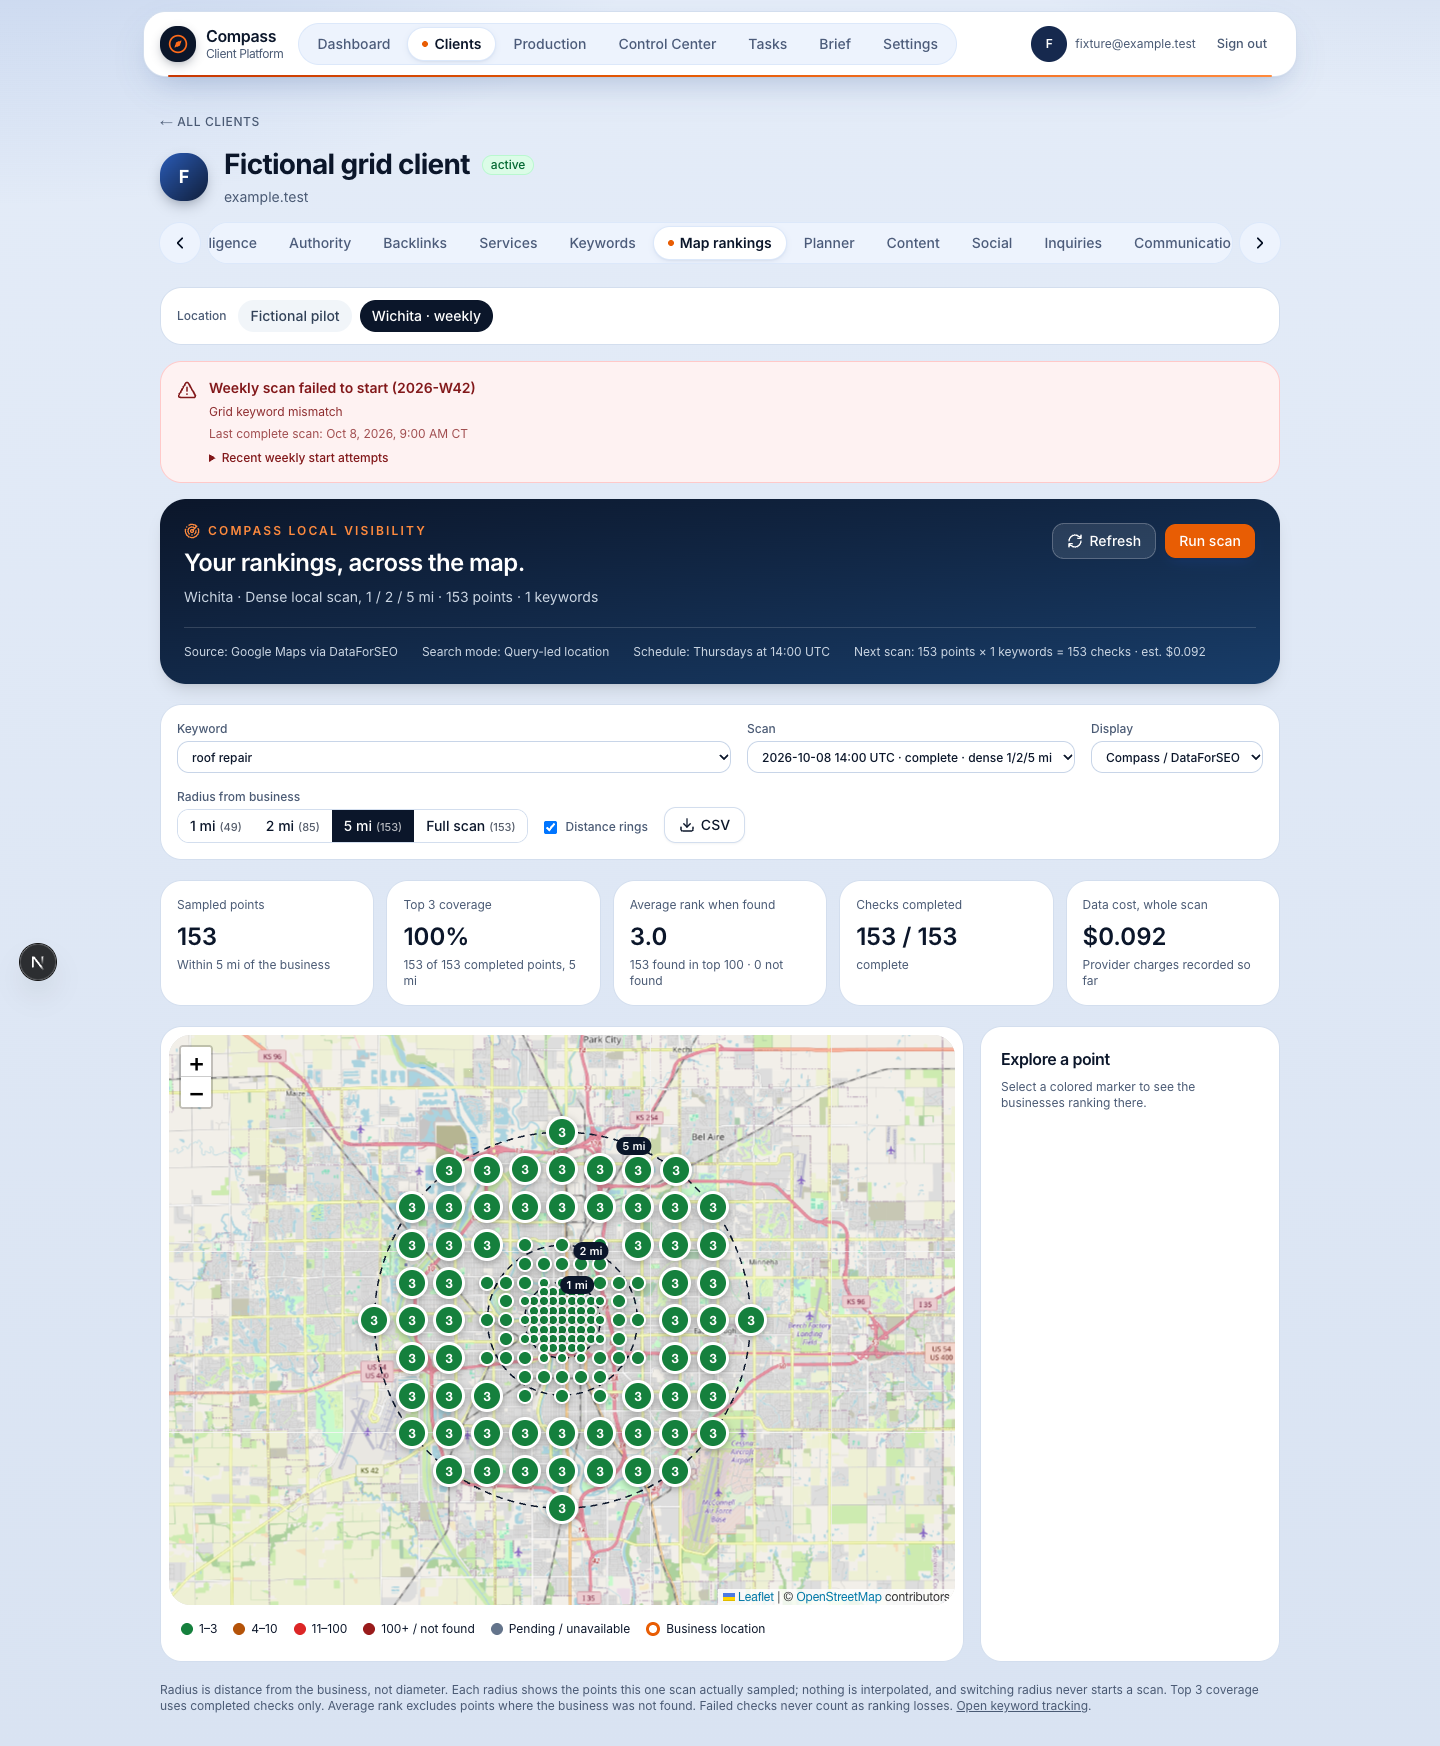
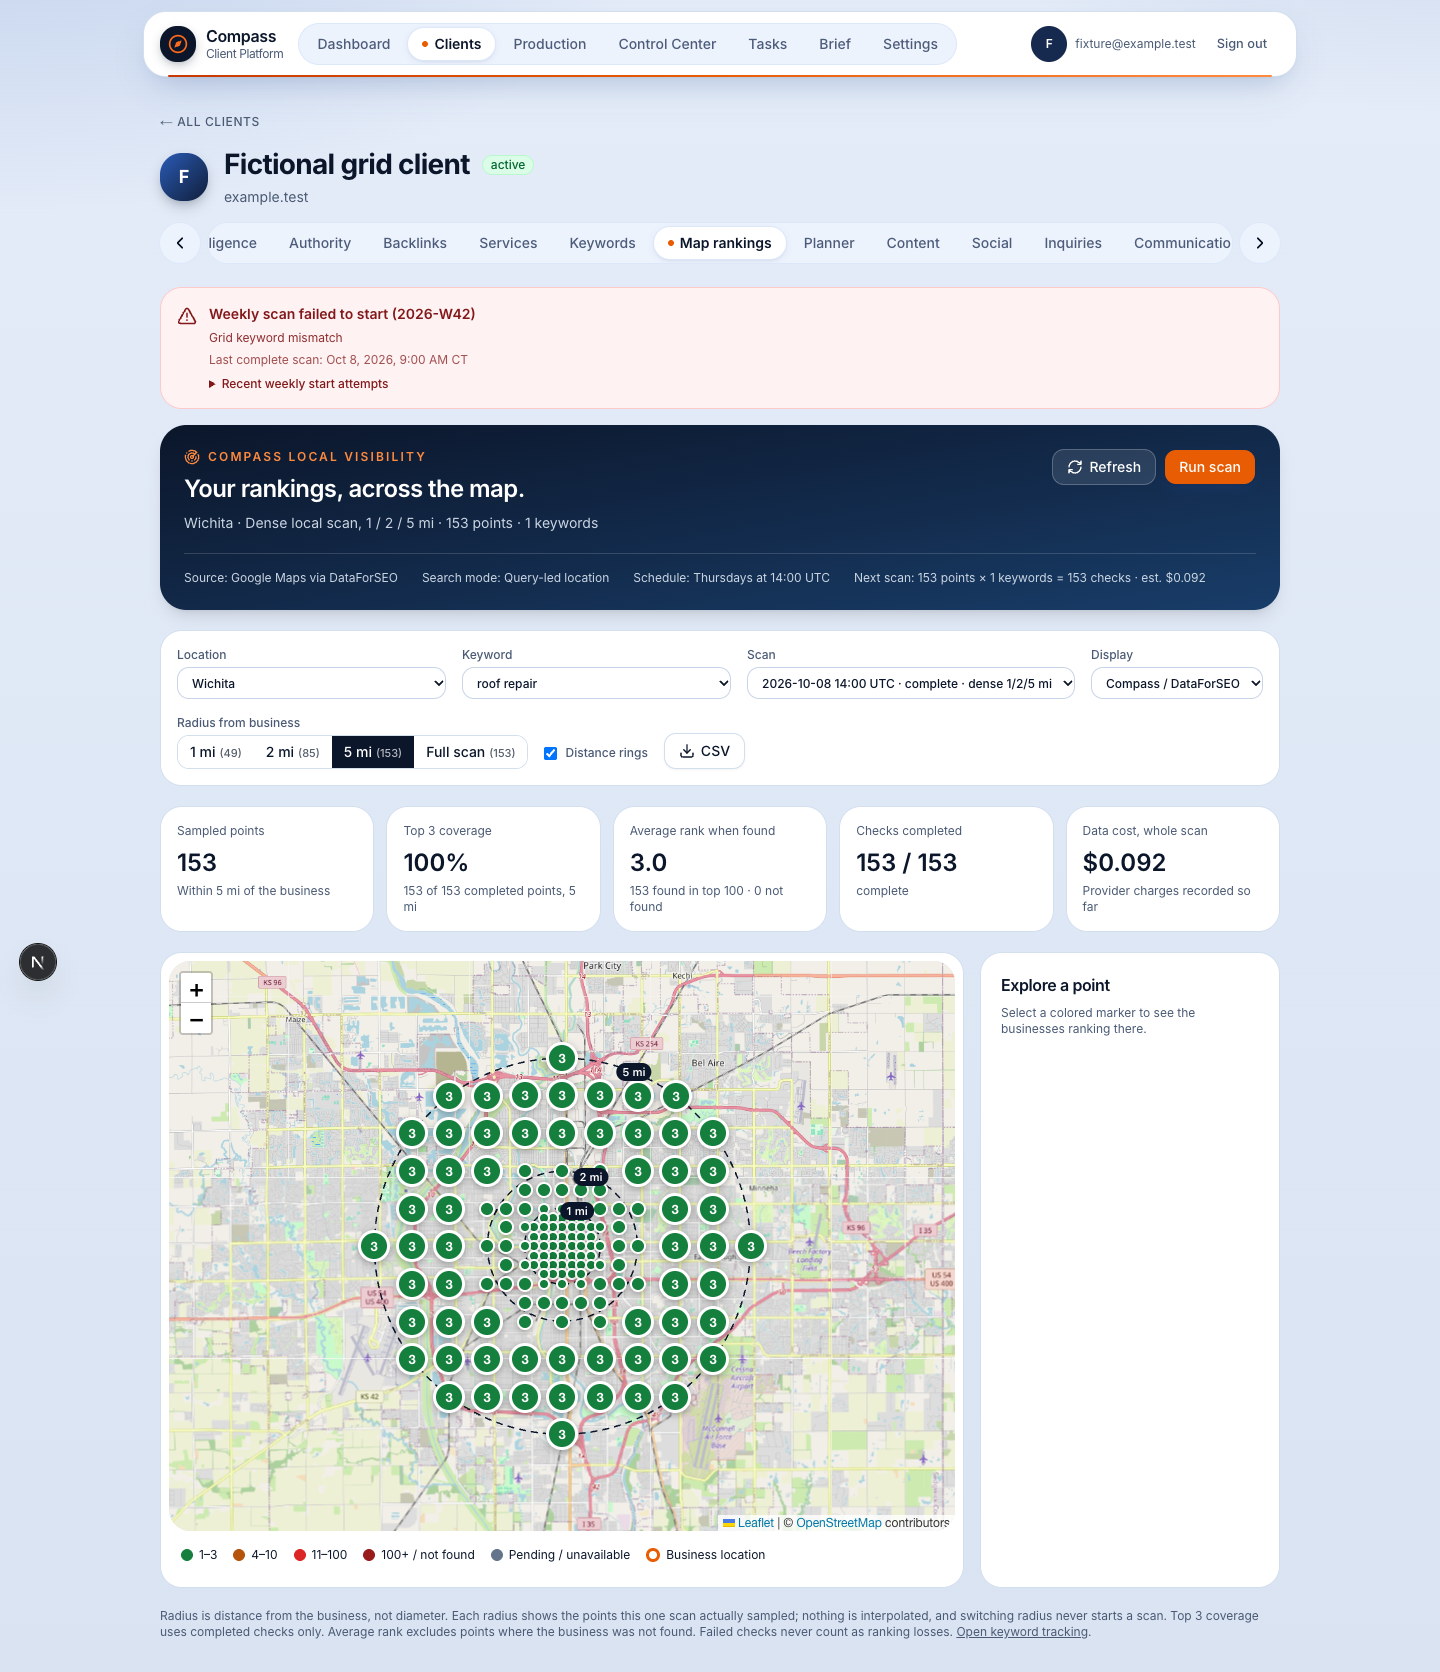
Map grid: align the location selector with #167; 404 for other clients' grids
Converge with the parallel implementation on #167 (8e8aba8) so the two
branches merge cleanly: the dashboard's "Map location" dropdown and
mapsHref links are taken verbatim from #167, and a profile or run from
another client is now a 404. Kept from #169: a ?run= link without
?profile= opens its run's own grid (otherwise a Wichita run link fell back
to the first profile), and weekly alerts link to ?profile=.

Changed region(s): [[0.0938, 0.0, 0.9062, 0.9952], [0.0, 0.5287, 0.0625, 0.5909], [0.8438, 0.9641, 0.875, 0.9952]]

diff --git a/src/app/(app)/clients/[clientId]/maps/page.tsx b/src/app/(app)/clients/[clientId]/maps/page.tsx
@@ -1,4 +1,4 @@
-import Link from "next/link";
+import { notFound } from "next/navigation";
 import { createClient } from "@/lib/supabase/server";
 import {
   MapGridDashboard,
@@ -18,8 +18,9 @@ export default async function MapsPage({
   const { clientId } = await params;
   const { run: runId, profile: profileParam } = await searchParams;
   const db = await createClient();
-  // A client can have several grids (one per location). Everything below is
-  // scoped to the one selected here, and only this client's grids are eligible.
+  // A client can have one profile per location (Logic Solar: Overland Park
+  // and Wichita). Only this client's profiles are candidates, so a profile or
+  // run from another client is a 404, never a silent switch to other data.
   const { data: profiles, error } = await db
     .from("map_grid_profiles")
     .select("*")
@@ -49,19 +50,7 @@ export default async function MapsPage({
   const profile = profileId
     ? profiles.find((p) => p.id === profileId)
     : profiles[0];
-  if (!profile)
-    return (
-      <div role="alert" className="rounded-2xl border bg-card p-8">
-        <h2 className="text-xl font-semibold">Map rankings</h2>
-        <p className="mt-2 text-sm text-muted-foreground">
-          That map grid is not one of this client&apos;s locations.{" "}
-          <Link href={`/clients/${clientId}/maps`} className="underline">
-            Show this client&apos;s grids
-          </Link>
-          .
-        </p>
-      </div>
-    );
+  if (!profile) notFound();
   const { data: runs, error: runsError } = await db
     .from("map_grid_runs")
     .select("id,started_at,status,error,config")
@@ -120,33 +109,6 @@ export default async function MapsPage({
   }
   return (
     <div className="space-y-4">
-      {profiles.length > 1 && (
-        <nav
-          aria-label="Map grid location"
-          className="flex flex-wrap items-center gap-2 rounded-2xl border bg-card p-3 text-sm"
-        >
-          <span className="px-1 text-xs font-medium text-muted-foreground">
-            Location
-          </span>
-          {profiles.map((p) => (
-            <Link
-              key={p.id}
-              href={`/clients/${clientId}/maps?profile=${p.id}`}
-              aria-current={p.id === profile.id ? "page" : undefined}
-              data-map-grid-profile-link={p.id}
-              className={
-                "rounded-full px-3 py-1.5 font-medium " +
-                (p.id === profile.id
-                  ? "bg-navy-900 text-white"
-                  : "bg-slate-100 text-slate-700 hover:bg-slate-200")
-              }
-            >
-              {p.label}
-              {p.weekly_enabled ? " · weekly" : ""}
-            </Link>
-          ))}
-        </nav>
-      )}
       {attemptsResult.error ? (
         <p
           role="alert"
@@ -160,6 +122,7 @@ export default async function MapsPage({
       <MapGridDashboard
         key={run?.id ?? profile.id}
         clientId={clientId}
+        profiles={profiles.map((p) => ({ id: p.id, label: p.label }))}
         profile={{
           id: profile.id,
           label: profile.label,

diff --git a/src/components/map-grid-dashboard.tsx b/src/components/map-grid-dashboard.tsx
@@ -62,6 +62,7 @@ export function MapGridDashboard({
   checks,
   baselines,
   homeCenter,
+  profiles = [],
 }: {
   clientId: string;
   profile: {
@@ -77,8 +78,13 @@ export function MapGridDashboard({
   baselines: GridBaseline[];
   // The grid config's recorded center, for runs frozen before geometry existed.
   homeCenter: GridPoint | null;
+  // Every map-grid profile this client has, one per location.
+  profiles?: { id: string; label: string }[];
 }) {
   const router = useRouter();
+  // Every link keeps the selected location, so refresh and history stay on it.
+  const mapsHref = (runId?: string) =>
+    `/clients/${clientId}/maps?profile=${profile.id}${runId ? `&run=${runId}` : ""}`;
   const [pending, startTransition] = useTransition();
   const [error, setError] = useState<string | null>(null);
   const config = run?.config ?? profile.config;
@@ -172,9 +178,7 @@ export function MapGridDashboard({
       const result = await startMapGridAction(clientId, profile.id, requestKey);
       if (result.error) setError(result.error);
       else if (result.runId)
-        router.push(
-          `/clients/${clientId}/maps?profile=${profile.id}&run=${result.runId}`,
-        );
+        router.push(mapsHref(result.runId));
       router.refresh();
     });
   function download() {
@@ -341,6 +345,25 @@ export function MapGridDashboard({
         </p>
       )}
       <div className="flex flex-wrap items-end gap-4 rounded-2xl border bg-card p-4">
+        {profiles.length > 1 && (
+          <label className="min-w-56 flex-1 text-xs font-medium text-muted-foreground">
+            Location
+            <select
+              aria-label="Map location"
+              className="field-sm mt-1 block w-full text-foreground"
+              value={profile.id}
+              onChange={(e) =>
+                router.push(`/clients/${clientId}/maps?profile=${e.target.value}`)
+              }
+            >
+              {profiles.map((p) => (
+                <option value={p.id} key={p.id}>
+                  {p.label}
+                </option>
+              ))}
+            </select>
+          </label>
+        )}
         <label className="min-w-56 flex-1 text-xs font-medium text-muted-foreground">
           Keyword
           <select
@@ -363,9 +386,7 @@ export function MapGridDashboard({
             className="field-sm mt-1 block text-foreground"
             value={run?.id ?? ""}
             onChange={(e) =>
-              router.push(
-                `/clients/${clientId}/maps?profile=${profile.id}&run=${e.target.value}`,
-              )
+              router.push(mapsHref(e.target.value))
             }
           >
             {!runs.length && <option value="">No scans yet</option>}

diff --git a/docs/map-grid-pilot.md b/docs/map-grid-pilot.md
@@ -73,7 +73,7 @@ Previously the weekly scheduler swallowed start errors, and nothing noticed a mi
 
 ## Viewer
 
-Team-only client **Map rankings** tab. **Several grids per client.** A client can have one grid per location, for example Logic Overland Park and Logic Wichita. A *Location* selector appears when there are two or more. The URL carries `?profile=<id>`. History, checks, BrightLocal baseline, weekly notice and **Run scan** are all scoped to that grid. The selection survives reloads and refreshes. A `?run=` link without a profile opens the run's own grid. A grid or run belonging to another client is refused. Switching location never starts a scan. Keyword selector, 30-scan history, interactive Leaflet/OSM map, point competitor details, CSV download (with distance from the business, for the radius shown), recorded API cost. Original BrightLocal baseline has its actual source date. No cross-provider movement score is calculated.
+Team-only client **Map rankings** tab. **Several grids per client.** A client can have one grid per location, for example Logic Overland Park and Logic Wichita. A *Location* dropdown appears when there are two or more. The URL carries `?profile=<id>`. History, checks, BrightLocal baseline, weekly notice and **Run scan** are all scoped to that grid. The selection survives reloads and refreshes. A `?run=` link without a profile opens the run's own grid. A grid or run belonging to another client is a 404. Switching location never starts a scan. Keyword selector, 30-scan history, interactive Leaflet/OSM map, point competitor details, CSV download (with distance from the business, for the radius shown), recorded API cost. Original BrightLocal baseline has its actual source date. No cross-provider movement score is calculated.
 
 Top 3 coverage divides by completed checks, including not-found checks. Average rank includes found points only and says so. Gray means pending/unavailable, never a ranking loss. Not found is labeled 100+ and can include cases where Google returned fewer than 100 listings. Provider errors and empty/malformed result envelopes are not treated as rank losses.
 
